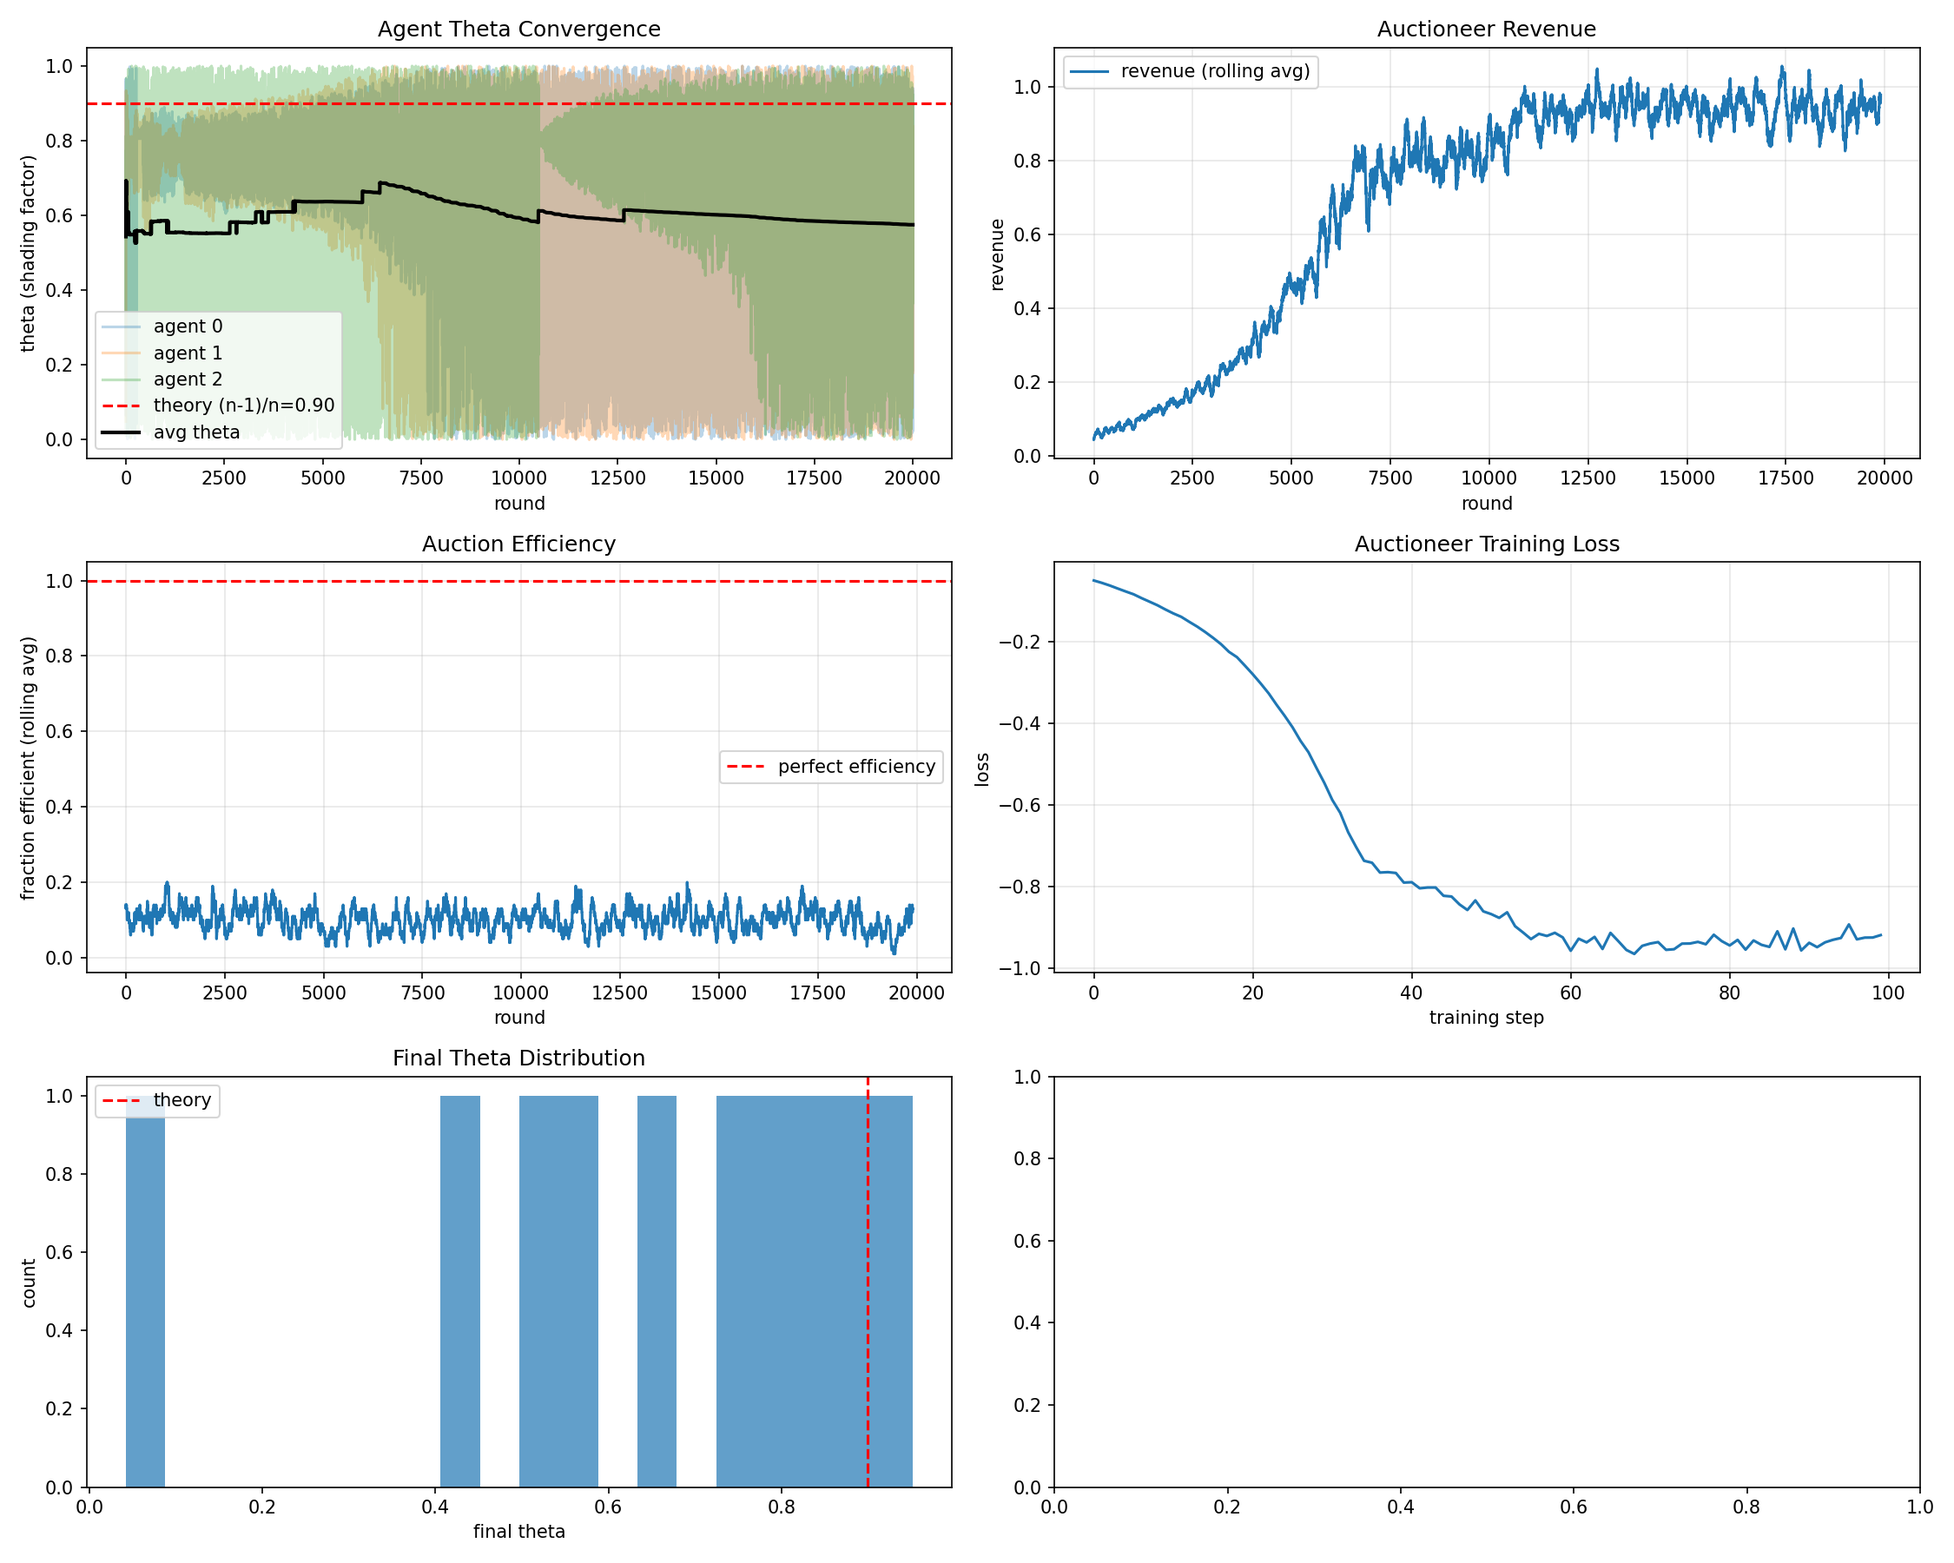
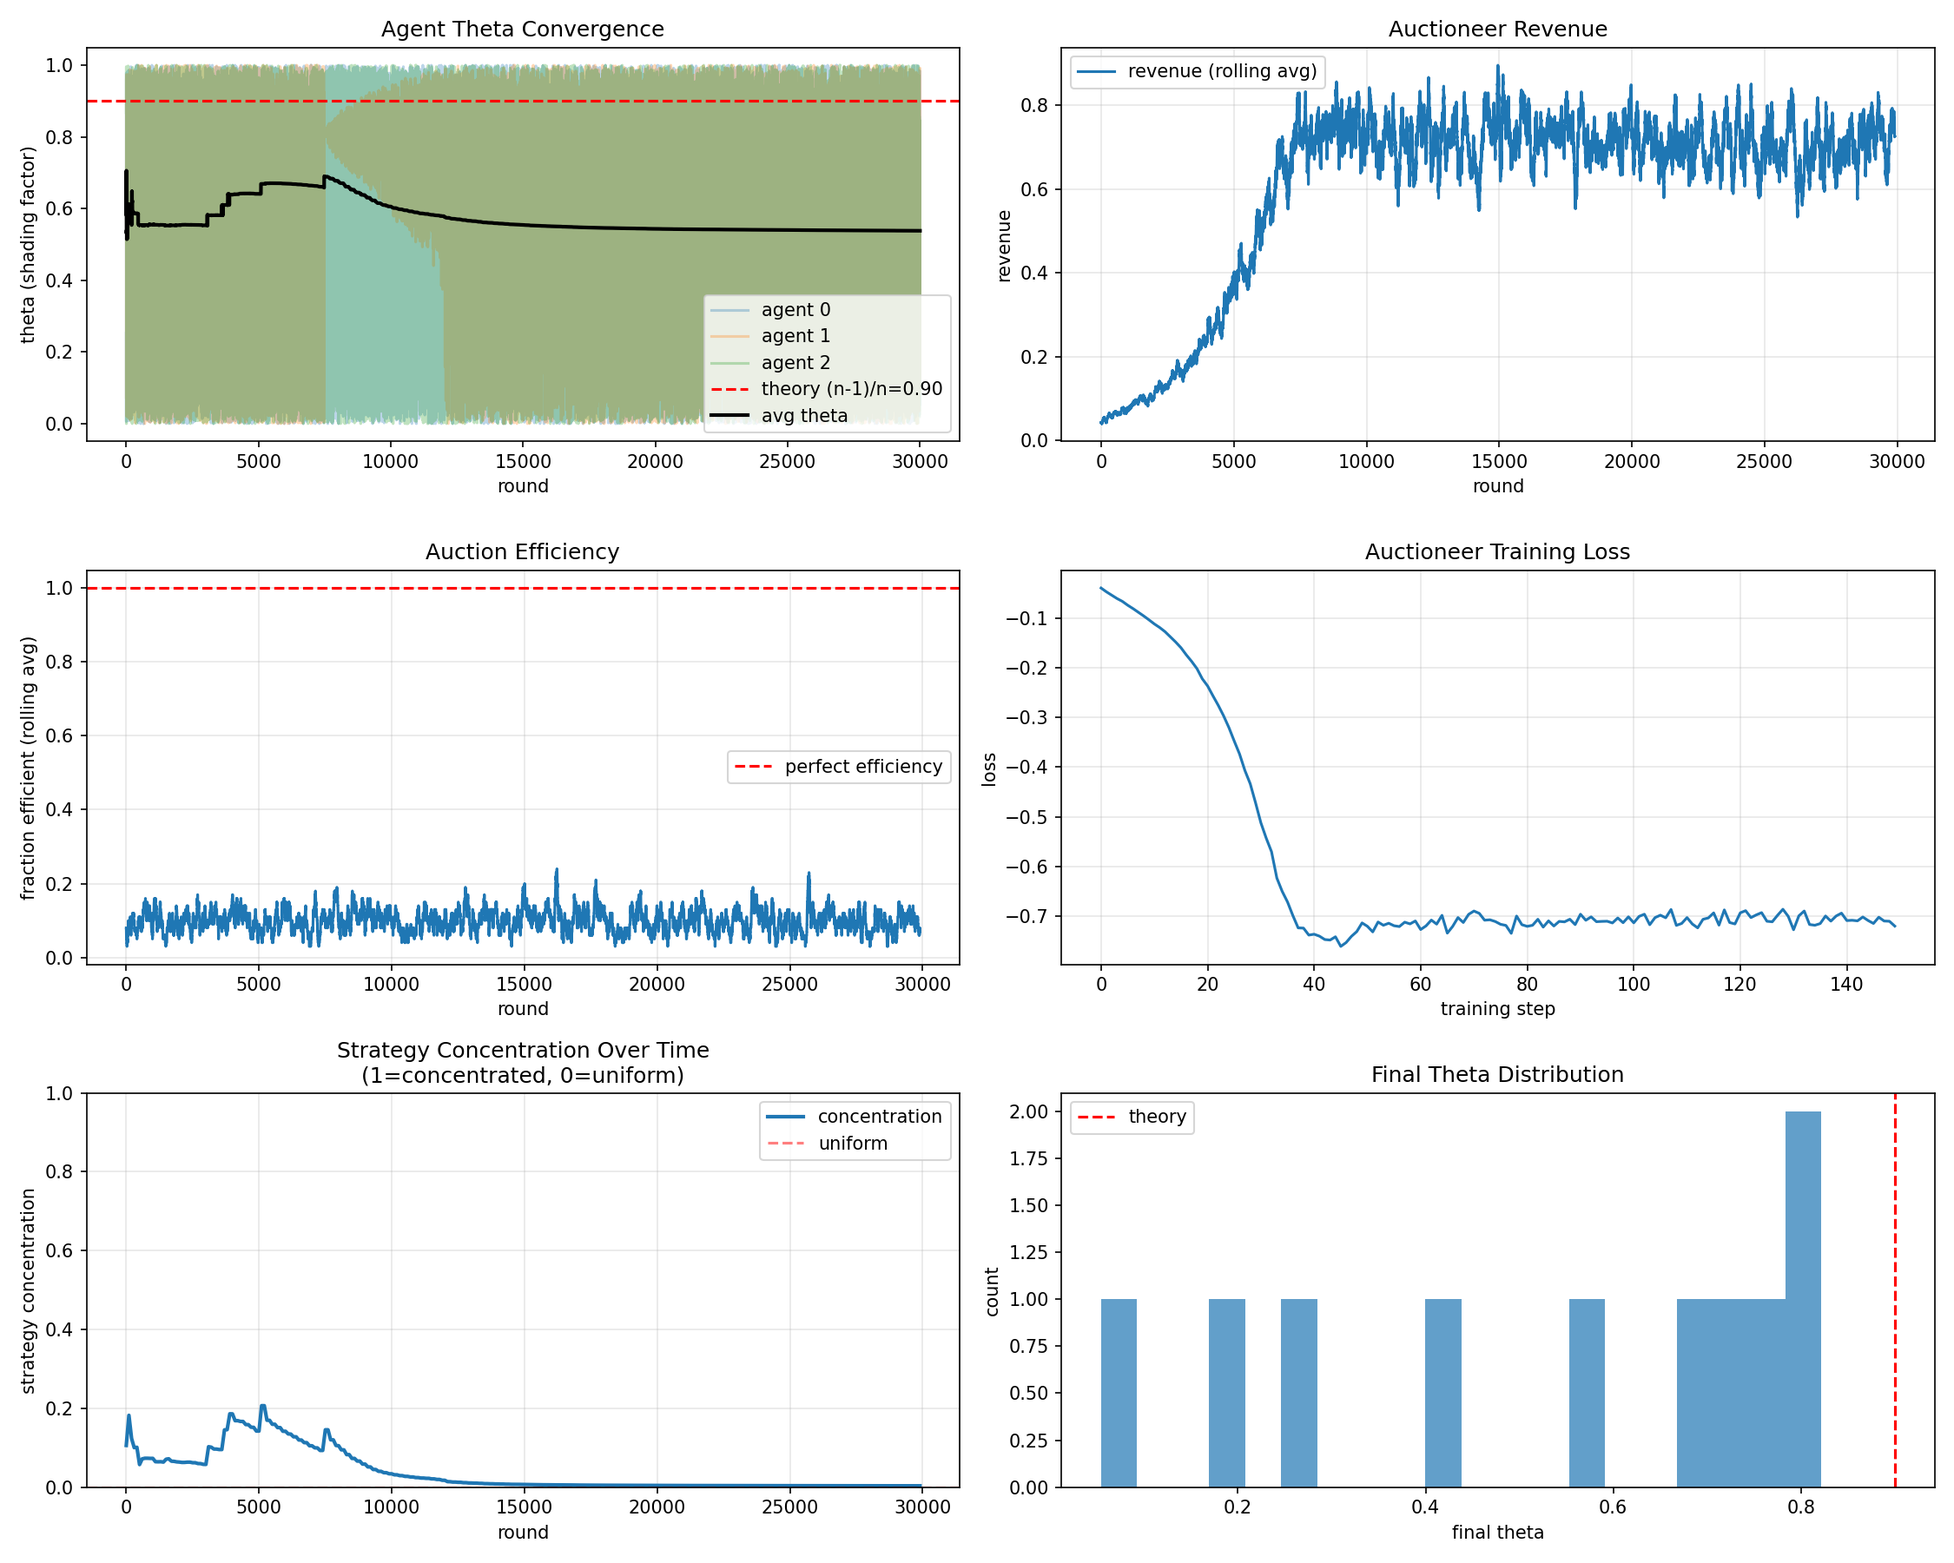
amd with strategy tracking

diff --git a/amd_bandits.py b/amd_bandits.py
@@ -465,7 +465,9 @@ def run_amd_simulation(
     allocation_hist = []
     payment_hist = []
     auctioneer_loss_hist = []
-    training_phase_hist = []  
+    training_phase_hist = []  # Track which phase we're in
+    strategy_concentration_hist = []  # Track strategy concentration over time
+    strategy_entropy_hist = []  # Track strategy entropy over time
     
     train_agents = True  
     auctioneer.experience_buffer = []
@@ -524,6 +526,43 @@ def run_amd_simulation(
         allocation_hist.append(outcome.allocation.copy())
         payment_hist.append(outcome.payments.copy())
         
+        # Track strategy concentration over time (every 100 rounds for efficiency)
+        if round_idx % 100 == 0:
+            if agent_type == "regret_matching":
+                # Calculate concentration metrics for RegretMatching
+                concentrations = []
+                entropies = []
+                for agent in agents:
+                    strategy = agent.strategy
+                    # Strategy entropy (lower = more concentrated)
+                    entropy = -np.sum(strategy * np.log(strategy + 1e-10))
+                    max_entropy = np.log(len(strategy))
+                    concentration = 1 - (entropy / max_entropy)  # 0 = uniform, 1 = concentrated
+                    concentrations.append(concentration)
+                    entropies.append(entropy)
+                
+                strategy_concentration_hist.append(np.mean(concentrations))
+                strategy_entropy_hist.append(np.mean(entropies))
+            else:
+                # For bandits, track Q-value concentration
+                # Use variance of best thetas as proxy for concentration
+                best_thetas = []
+                for agent in agents:
+                    # Get best theta for each value bin
+                    best_theta_per_bin = []
+                    for state in range(agent.n_value_bins):
+                        best_arm = np.argmax(agent.Q[state])
+                        best_theta = agent.theta_options[best_arm]
+                        best_theta_per_bin.append(best_theta)
+                    best_thetas.append(np.mean(best_theta_per_bin))
+                
+                # Lower variance = more concentrated/symmetric
+                theta_variance = np.var(best_thetas)
+                # Convert to concentration metric (inverse of variance, normalized)
+                concentration = 1.0 / (1.0 + theta_variance * 10)  # Scale factor
+                strategy_concentration_hist.append(concentration)
+                strategy_entropy_hist.append(theta_variance)  # Store variance as "entropy"
+        
         if round_idx % 5000 == 0:
             if agent_type == "regret_matching":
                 expected_thetas = [np.dot(agent.strategy, agent.theta_options) for agent in agents]
@@ -558,9 +597,12 @@ def run_amd_simulation(
         'auctioneer_loss_hist': auctioneer_loss_hist,
         'training_phase_hist': training_phase_hist,
         'avg_theta_hist': avg_theta_hist,
+        'strategy_concentration_hist': strategy_concentration_hist,
+        'strategy_entropy_hist': strategy_entropy_hist,
         'final_avg_theta': final_avg_theta,
         'final_efficiency': final_efficiency,
-        'final_revenue': final_revenue
+        'final_revenue': final_revenue,
+        'agent_type': agent_type  # Store agent type for strategy analysis
     }
 
 
@@ -635,8 +677,35 @@ def plot_amd_convergence(metrics: Dict, n_agents: int, save_path: str = 'graphs/
         ax.set_title('Auctioneer Training Loss')
     
     
-    # 5. Final theta distribution
+    # 5. Strategy concentration over time
     ax = axes[2, 0]
+    if 'strategy_concentration_hist' in metrics and len(metrics['strategy_concentration_hist']) > 0:
+        concentration_hist = metrics['strategy_concentration_hist']
+        # Convert to round indices (every 100 rounds)
+        round_indices = np.arange(len(concentration_hist)) * 100
+        ax.plot(round_indices, concentration_hist, linewidth=2, label='concentration')
+        ax.set_xlabel('round')
+        ax.set_ylabel('strategy concentration')
+        ax.set_title('Strategy Concentration Over Time\n(1=concentrated, 0=uniform)')
+        ax.set_ylim(0, 1)
+        ax.grid(True, alpha=0.3)
+        # Add horizontal line at uniform (0)
+        ax.axhline(y=0, color='r', linestyle='--', alpha=0.5, label='uniform')
+        ax.legend()
+    else:
+        # Fallback to final theta distribution if no concentration data
+        theta_hist = metrics['theta_hist']
+        final_thetas = [hist[-1] for hist in theta_hist if len(hist) > 0]
+        if len(final_thetas) > 0:
+            ax.hist(final_thetas, bins=20, alpha=0.7)
+            ax.axvline(x=(n_agents-1)/n_agents, color='r', linestyle='--', label='theory')
+            ax.set_xlabel('final theta')
+            ax.set_ylabel('count')
+            ax.set_title('Final Theta Distribution')
+            ax.legend()
+    
+    # 6. Final theta distribution (or empty)
+    ax = axes[2, 1]
     theta_hist = metrics['theta_hist']
     final_thetas = [hist[-1] for hist in theta_hist if len(hist) > 0]
     if len(final_thetas) > 0:
@@ -653,10 +722,231 @@ def plot_amd_convergence(metrics: Dict, n_agents: int, save_path: str = 'graphs/
     plt.close()
 
 
+def extract_agent_strategies(agents, agent_type: str):
+    """
+    Extract learned strategies from agents
+    
+    Args:
+        agents: List of agents
+        agent_type: "ucb", "epsilon_greedy", or "regret_matching"
+    
+    Returns:
+        Dictionary with strategy information
+    """
+    strategies = {}
+    
+    if agent_type in ["ucb", "epsilon_greedy"]:
+        # Bandit agents: Extract Q-tables
+        for i, agent in enumerate(agents):
+            strategies[i] = {
+                'type': 'bandit',
+                'Q_table': agent.Q.copy(),  # [n_value_bins, n_arms]
+                'theta_options': agent.theta_options.copy(),
+                'n_value_bins': agent.n_value_bins,
+                'best_theta_per_state': []
+            }
+            
+            # For each value bin, find best theta
+            for state in range(agent.n_value_bins):
+                best_arm = np.argmax(agent.Q[state])
+                best_theta = agent.theta_options[best_arm]
+                strategies[i]['best_theta_per_state'].append(best_theta)
+    
+    elif agent_type == "regret_matching":
+        # RegretMatching: Extract strategy distribution
+        for i, agent in enumerate(agents):
+            strategies[i] = {
+                'type': 'regret_matching',
+                'strategy': agent.strategy.copy(),  # Probability distribution
+                'theta_options': agent.theta_options.copy(),
+                'expected_theta': np.dot(agent.strategy, agent.theta_options),
+                'top_thetas': []
+            }
+            
+            # Get top 5 most likely thetas
+            top_indices = np.argsort(agent.strategy)[-5:][::-1]
+            for idx in top_indices:
+                strategies[i]['top_thetas'].append({
+                    'theta': agent.theta_options[idx],
+                    'probability': agent.strategy[idx]
+                })
+    
+    return strategies
+
+
+def plot_agent_strategies(agents, agent_type: str, n_agents: int, 
+                          save_path: str = 'graphs/agent_strategies.png'):
+    """
+    Visualize learned strategies for all agents
+    
+    Args:
+        agents: List of agents
+        agent_type: Type of agents
+        n_agents: Number of agents
+        save_path: Path to save plot
+    """
+    strategies = extract_agent_strategies(agents, agent_type)
+    
+    if agent_type in ["ucb", "epsilon_greedy"]:
+        # Bandit strategies: Show Q-tables as heatmaps
+        fig, axes = plt.subplots(2, (n_agents + 1) // 2, figsize=(15, 10))
+        if n_agents == 1:
+            axes = [axes]
+        else:
+            axes = axes.flatten()
+        
+        for i, agent in enumerate(agents):
+            ax = axes[i]
+            Q = strategies[i]['Q_table']
+            theta_options = strategies[i]['theta_options']
+            
+            # Show Q-values as heatmap (value_bin vs theta)
+            # For clarity, show every 10th theta option
+            theta_indices = np.arange(0, len(theta_options), max(1, len(theta_options) // 50))
+            Q_subset = Q[:, theta_indices]
+            theta_subset = theta_options[theta_indices]
+            
+            im = ax.imshow(Q_subset.T, aspect='auto', origin='lower', cmap='viridis')
+            ax.set_xlabel('Value Bin')
+            ax.set_ylabel('Theta Index')
+            ax.set_title(f'Agent {i} Q-Table\n(Expected Theta: {np.mean(strategies[i]["best_theta_per_state"]):.3f})')
+            ax.set_yticks(range(0, len(theta_subset), max(1, len(theta_subset) // 5)))
+            ax.set_yticklabels([f'{theta_subset[j]:.2f}' for j in range(0, len(theta_subset), max(1, len(theta_subset) // 5))])
+            plt.colorbar(im, ax=ax, label='Q-value')
+        
+        # Hide unused subplots
+        for i in range(n_agents, len(axes)):
+            axes[i].axis('off')
+        
+        plt.tight_layout()
+        plt.savefig(save_path, dpi=150)
+        print(f"Strategy heatmaps saved to {save_path}")
+        plt.close()
+    
+    elif agent_type == "regret_matching":
+        # RegretMatching strategies: Show probability distributions
+        fig, axes = plt.subplots(2, (n_agents + 1) // 2, figsize=(15, 10))
+        if n_agents == 1:
+            axes = [axes]
+        else:
+            axes = axes.flatten()
+        
+        for i, agent in enumerate(agents):
+            ax = axes[i]
+            strategy = strategies[i]['strategy']
+            theta_options = strategies[i]['theta_options']
+            expected_theta = strategies[i]['expected_theta']
+            
+            # Plot strategy distribution
+            ax.plot(theta_options, strategy, linewidth=2)
+            ax.axvline(x=expected_theta, color='r', linestyle='--', 
+                      label=f'Expected: {expected_theta:.3f}')
+            ax.axvline(x=(n_agents-1)/n_agents, color='g', linestyle='--', 
+                      label=f'Theory: {(n_agents-1)/n_agents:.3f}')
+            ax.set_xlabel('Theta')
+            ax.set_ylabel('Probability')
+            ax.set_title(f'Agent {i} Strategy Distribution')
+            ax.legend()
+            ax.grid(True, alpha=0.3)
+        
+        # Hide unused subplots
+        for i in range(n_agents, len(axes)):
+            axes[i].axis('off')
+        
+        plt.tight_layout()
+        plt.savefig(save_path, dpi=150)
+        print(f"Strategy distributions saved to {save_path}")
+        plt.close()
+
+
+def print_strategy_summary(agents, agent_type: str, n_agents: int):
+    """
+    Print summary of learned strategies
+    
+    Args:
+        agents: List of agents
+        agent_type: Type of agents
+        n_agents: Number of agents
+    """
+    strategies = extract_agent_strategies(agents, agent_type)
+    
+    print("\n" + "=" * 80)
+    print("LEARNED STRATEGY SUMMARY")
+    print("=" * 80)
+    
+    if agent_type in ["ucb", "epsilon_greedy"]:
+        print(f"\nBandit Agents ({agent_type}):")
+        print(f"{'Agent':<10} {'Avg Theta':<15} {'Theta Range':<20} {'Top Theta':<15}")
+        print("-" * 80)
+        
+        for i in range(n_agents):
+            best_thetas = strategies[i]['best_theta_per_state']
+            avg_theta = np.mean(best_thetas)
+            theta_range = f"[{np.min(best_thetas):.3f}, {np.max(best_thetas):.3f}]"
+            top_theta = np.max(best_thetas)
+            print(f"{i:<10} {avg_theta:<15.3f} {theta_range:<20} {top_theta:<15.3f}")
+        
+        # Show value-dependent strategies for all agents
+        print("\n" + "-" * 80)
+        print("Value-Dependent Strategies (All Agents):")
+        for i in range(n_agents):
+            print(f"\nAgent {i}:")
+            print(f"  Low values (0.0-0.3):  theta ≈ {np.mean(strategies[i]['best_theta_per_state'][:3]):.3f}")
+            print(f"  Mid values (0.4-0.6):  theta ≈ {np.mean(strategies[i]['best_theta_per_state'][4:7]):.3f}")
+            print(f"  High values (0.7-1.0): theta ≈ {np.mean(strategies[i]['best_theta_per_state'][7:]):.3f}")
+    
+    elif agent_type == "regret_matching":
+        print("\nRegretMatching Agents:")
+        print(f"{'Agent':<10} {'Expected Theta':<20} {'Top 3 Thetas':<50}")
+        print("-" * 80)
+        
+        for i in range(n_agents):
+            expected = strategies[i]['expected_theta']
+            top_thetas = strategies[i]['top_thetas'][:3]
+            top_str = ", ".join([f"θ={t['theta']:.3f}({t['probability']:.2f})" 
+                                for t in top_thetas])
+            print(f"{i:<10} {expected:<20.3f} {top_str:<50}")
+        
+        # Show strategy concentration for all agents
+        print("\n" + "-" * 80)
+        print("Strategy Concentration (Top 5 Thetas - All Agents):")
+        print("Note: With 500 theta options, uniform distribution = 1/500 = 0.0020 per theta")
+        print("Higher probabilities indicate more concentrated strategies.\n")
+        
+        for i in range(n_agents):
+            strategy = strategies[i]['strategy']
+            top_thetas = strategies[i]['top_thetas']
+            expected = strategies[i]['expected_theta']
+            theta_opts = strategies[i]['theta_options']
+            
+            # Calculate concentration metrics
+            top5_prob_sum = sum([t['probability'] for t in top_thetas[:5]])
+            entropy = -np.sum(strategy * np.log(strategy + 1e-10))  # Strategy entropy
+            max_entropy = np.log(len(strategy))  # Maximum entropy (uniform)
+            concentration = 1 - (entropy / max_entropy)  # 0 = uniform, 1 = concentrated
+            
+            # Show probability mass in different theta ranges
+            low_range = np.sum(strategy[(theta_opts >= 0.0) & (theta_opts < 0.4)])
+            mid_range = np.sum(strategy[(theta_opts >= 0.4) & (theta_opts < 0.7)])
+            high_range = np.sum(strategy[(theta_opts >= 0.7) & (theta_opts <= 1.0)])
+            
+            print(f"\nAgent {i}:")
+            print(f"  Expected theta: {expected:.3f}")
+            print(f"  Top 5 thetas total probability: {top5_prob_sum:.4f} ({top5_prob_sum*100:.1f}%)")
+            print(f"  Strategy concentration: {concentration:.4f} (0=uniform, 1=concentrated)")
+            print(f"  Probability mass: Low[0.0-0.4)={low_range:.3f}, Mid[0.4-0.7)={mid_range:.3f}, High[0.7-1.0]={high_range:.3f}")
+            print("  (If uniform: each range ≈ 0.33)")
+            
+            for j, top in enumerate(top_thetas[:5], 1):
+                print(f"  {j}. θ={top['theta']:.3f}: prob={top['probability']:.4f}")
+    
+    print("\n" + "=" * 80)
+
+
 if __name__ == "__main__":
     # Test the AMD implementation
     n_agents = 10
-    n_rounds = 20000  # More rounds for convergence
+    n_rounds = 30000  # More rounds for convergence
     theta_options = np.linspace(0.0, 1.0, 1000)
     
     # Create graphs directory if it doesn't exist
@@ -687,6 +977,21 @@ if __name__ == "__main__":
     
     # Plot convergence
     plot_amd_convergence(metrics, n_agents, save_path='graphs/amd_convergence.png')
+    
+    # Extract and visualize strategies
+    print("\n" + "=" * 60)
+    print("Analyzing Learned Strategies...")
+    print("=" * 60)
+    
+    # Get agent type from metrics or use default
+    agent_type_used = metrics.get('agent_type', "regret_matching")
+    
+    # Print strategy summary
+    print_strategy_summary(agents, agent_type=agent_type_used, n_agents=n_agents)
+    
+    # Plot strategy visualizations
+    plot_agent_strategies(agents, agent_type=agent_type_used, n_agents=n_agents,
+                         save_path='graphs/agent_strategies.png')
     
     print("\n" + "=" * 60)
     print("Simulation Complete!")
